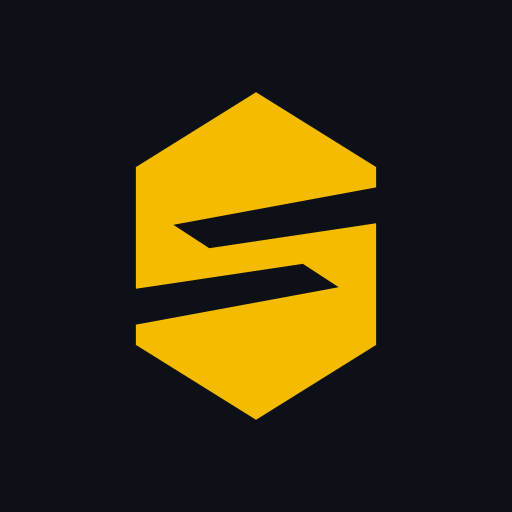
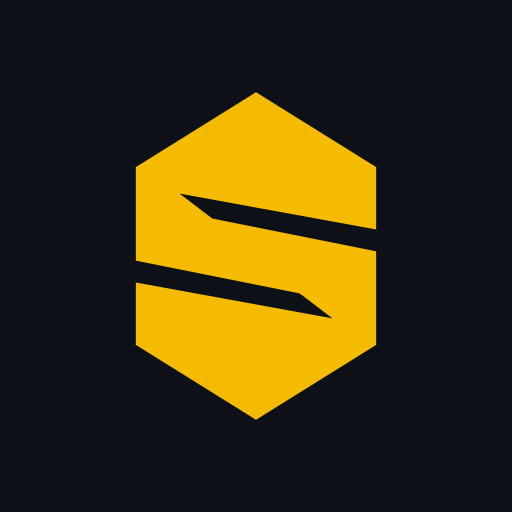
fix(brand): run the hex-S cuts the way the brand sheet does
Both diagonals now descend left-to-right. The first pass had them
ascending — a mirrored slope, which still reads as an S but is not this
logo. The handedness is unchanged (upper cut opens from the right edge,
lower from the left); only the slope flipped, along with thinner cuts and
a heavier spine to match the sheet's stroke weight.

Nothing about a flipped slope fails loudly, so the direction is now part
of the contract recorded in the geometry module's header.

Verified the cuts stay open down to a 16px favicon.

Claude-Session: https://claude.ai/code/session_01Pc478VemT313R3HempjDmh

Changed region(s): [[0.3438, 0.3438, 0.75, 0.5], [0.25, 0.5, 0.6562, 0.6562]]

diff --git a/src/components/brand/steelBuildMarkGeometry.ts b/src/components/brand/steelBuildMarkGeometry.ts
@@ -4,9 +4,14 @@
  * The mark is a pointy-top hexagon with an "S" carved out of it by two angled
  * slots. The upper slot opens from the RIGHT edge (so the top bar stays
  * attached on the left) and the lower slot opens from the LEFT edge. That
- * handedness is the whole letter: swap the two and the mark reads as a Z. The
- * slots are 180° rotations of each other about the hexagon centre (256, 256),
- * which is what keeps the S balanced at nav sizes.
+ * handedness is the whole letter: swap the two and the mark reads as a Z.
+ *
+ * Both cuts descend left-to-right, matching the brand sheet. Flipping that
+ * slope keeps a readable S, so nothing breaks loudly — it just stops being
+ * this logo, which is why it is written down here.
+ *
+ * The slots are 180° rotations of each other about the hexagon centre
+ * (256, 256), which is what keeps the S balanced at nav sizes.
  *
  * The three sub-paths are filled as ONE path with `fill-rule="evenodd"` so the
  * slots stay genuinely transparent. That is deliberate: the mark has to sit on
@@ -31,8 +36,8 @@ export const MARK_TILE_VIEWBOX = "0 0 512 512";
 /** Hexagon outline, then the upper slot (opens right), then the lower slot (opens left). */
 export const MARK_PATH = [
   "M256 46 L410 142 L410 370 L256 466 L102 370 L102 142 Z",
-  "M410 168 L150 216 L196 246 L410 214 Z",
-  "M102 344 L362 296 L316 266 L102 298 Z",
+  "M158 176 L410 222 L410 250 L200 208 Z",
+  "M354 336 L102 290 L102 262 L312 304 Z",
 ].join(" ");
 
 /** Signal Amber — the mark's own colour, from the SteelBuild-Pro brand palette. */
